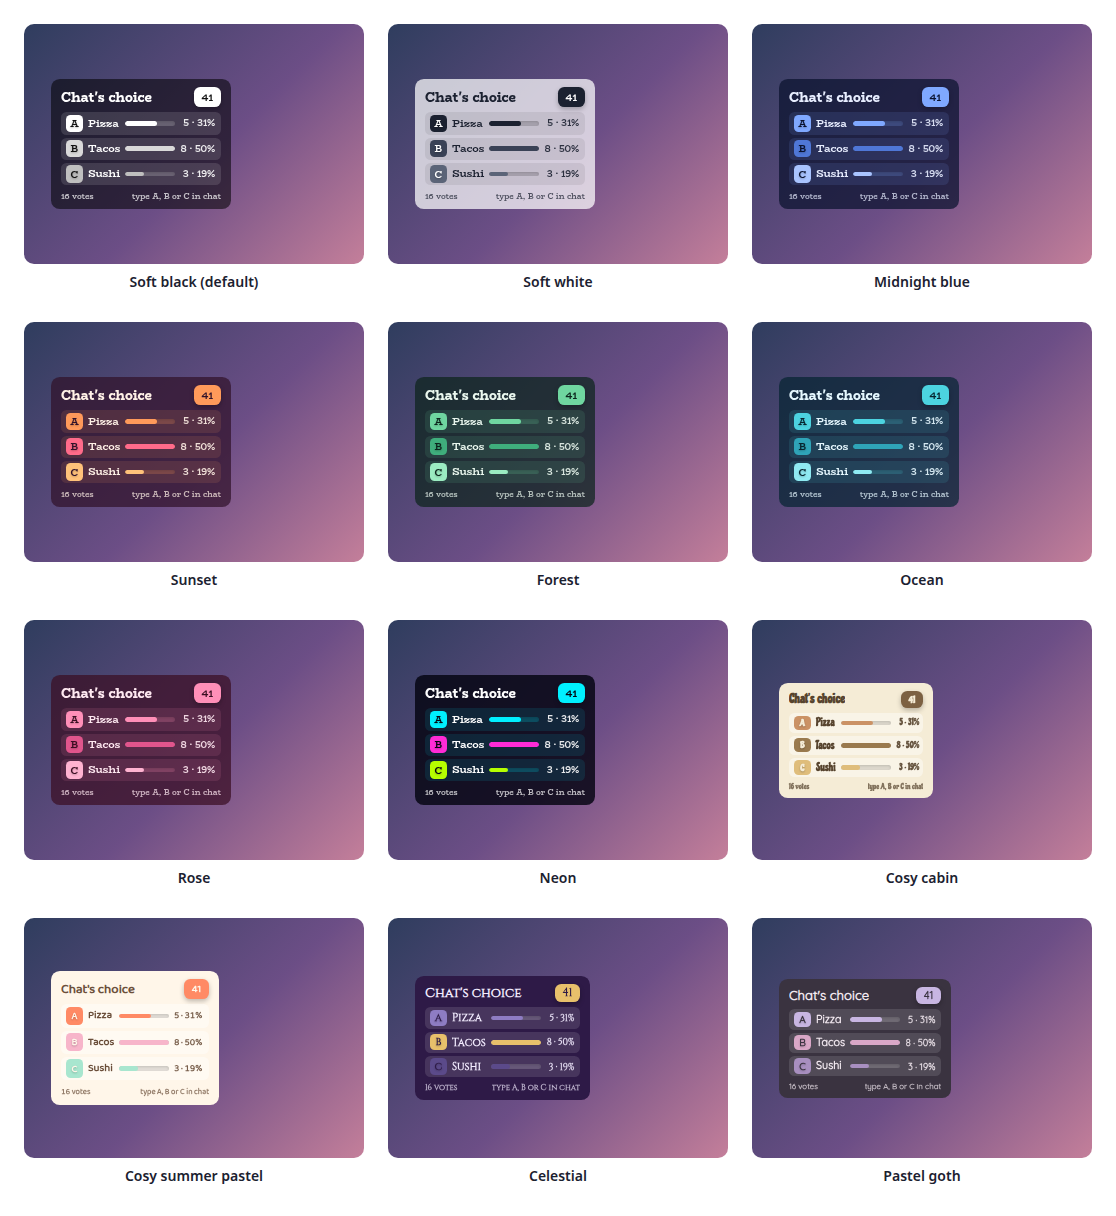
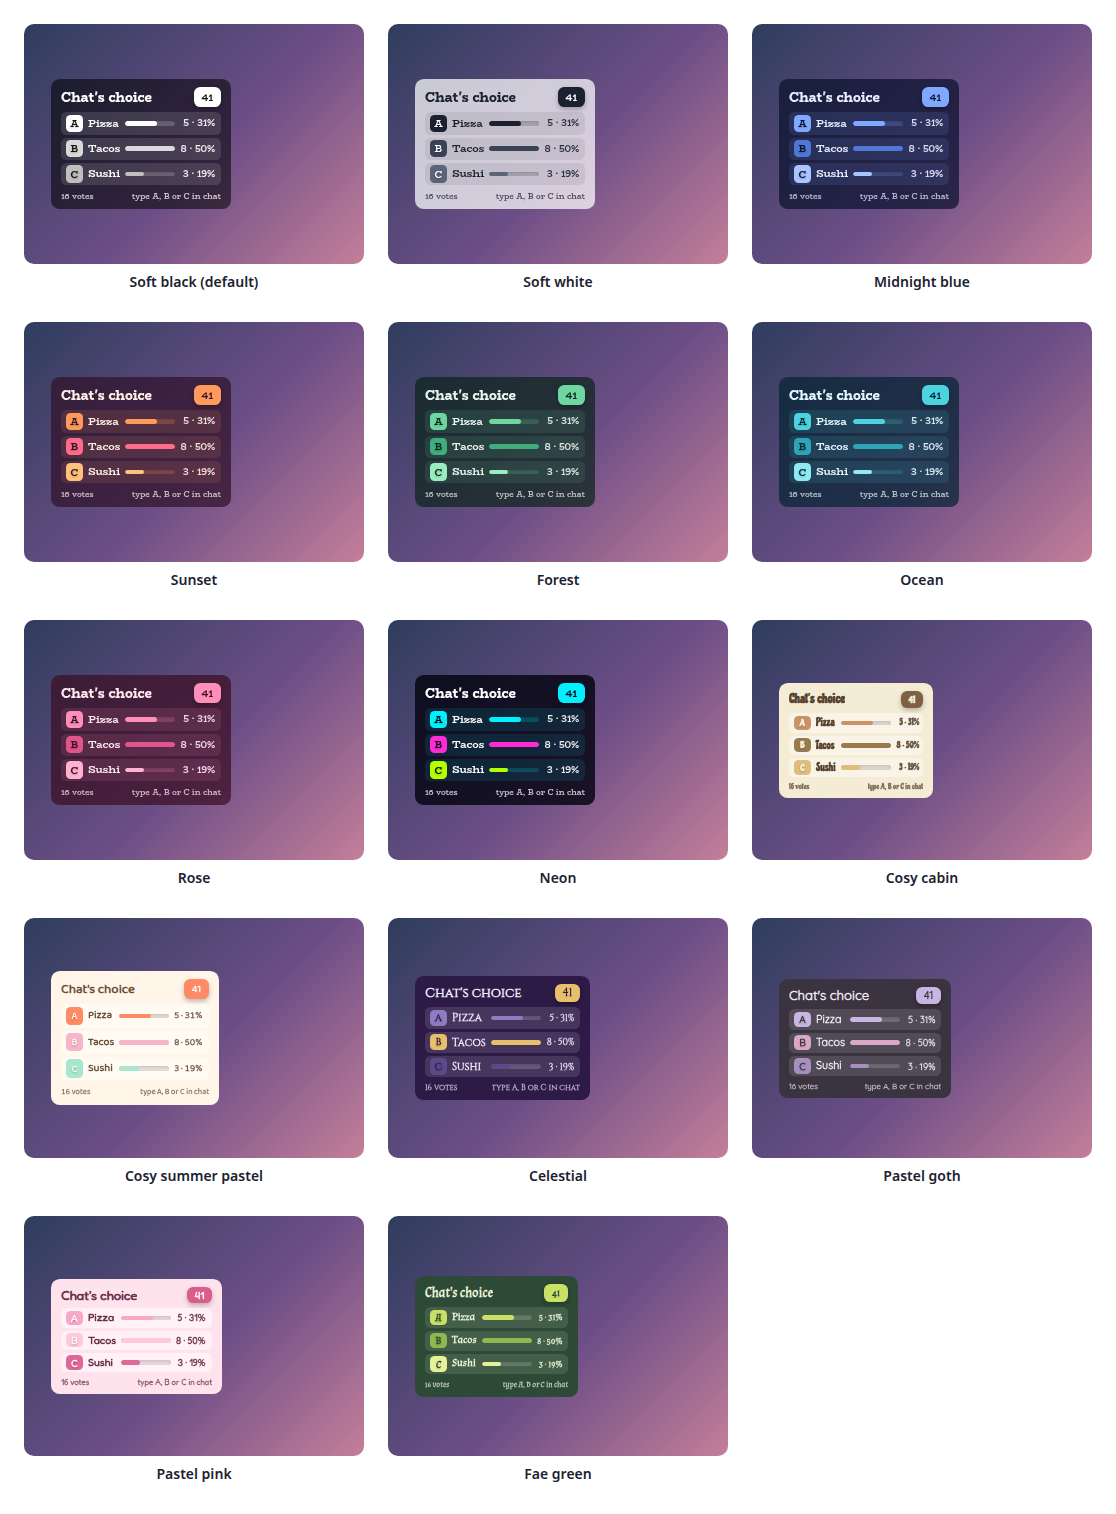
Add the Pastel pink and Fae green presets, and let the suffixes be blank
Two more style presets join the shared set, so there are now fourteen. Pastel pink is a soft blush with rose, in Fredoka, whose rounded letters suit it, and Fae green is a mossy green with a firefly lime accent, in Almendra, a storybook serif. They are identical in every overlay in this set, the dropdown and the README gallery show all fourteen, and the test checks each against the shared palette.

The ending of the hint line and the word after the total of a blind poll can now be cleared, which used to bring the defaults back.

diff --git a/test/test-widget.js b/test/test-widget.js
@@ -410,6 +410,13 @@ function ok(cond, msg) { if (cond) { pass++; console.log("  PASS " + msg); } els
   chat("truth b", { nick: "cat" });
   ok(votes().join(",") === "0,1", "and still matches on its label text (" + votes().join(",") + ")");
 
+  console.log("\n[blank wording stays blank]");
+  load({ hintSuffix: "", blindSuffix: "", liveResults: false }); await wait(5);
+  chat("!vote One, Two", boss); await wait(5);
+  ok(elements["vote-hint"].textContent === "type A or B", "a blank hint ending leaves none, with no stray space (" + JSON.stringify(elements["vote-hint"].textContent) + ")");
+  chat("1", { nick: "ann" });
+  ok(total() === "1 vote", "and a blank 'in' after the total leaves just the total (" + total() + ")");
+
   console.log("\n[the hint stays short]");
   load(); await wait(5);
   chat("!vote One, Two", boss); await wait(5);
@@ -568,11 +575,11 @@ function ok(cond, msg) { if (cond) { pass++; console.log("  PASS " + msg); } els
   ok(unhandled.length === 0, "every button is handled (unhandled: " + unhandled.join(", ") + ")");
 
 
-  // ---- style presets: the same twelve, with the same colours, in every overlay
+  // ---- style presets: the same fourteen, with the same colours, in every overlay
   console.log("\n[style presets]");
-  const EXPECT = {"glass": {"text": "#FFFFFF", "accent": "#FFFFFF", "panel": "rgba(0, 0, 0, 0.55)", "font": "BioRhyme"}, "frost": {"text": "#1B2130", "accent": "#1B2130", "panel": "rgba(255, 255, 255, 0.72)", "font": "BioRhyme"}, "midnight": {"text": "#E8EEFF", "accent": "#7FA8FF", "panel": "rgba(10, 18, 46, 0.72)", "font": "BioRhyme"}, "sunset": {"text": "#FFF1E6", "accent": "#FF9A5A", "panel": "rgba(48, 18, 42, 0.72)", "font": "BioRhyme"}, "forest": {"text": "#EAF7EE", "accent": "#6FD6A0", "panel": "rgba(12, 36, 28, 0.72)", "font": "BioRhyme"}, "ocean": {"text": "#E6F8FF", "accent": "#4CD3E0", "panel": "rgba(6, 36, 50, 0.72)", "font": "BioRhyme"}, "rose": {"text": "#FFE9F1", "accent": "#FF8FB8", "panel": "rgba(58, 14, 34, 0.72)", "font": "BioRhyme"}, "neon": {"text": "#FFFFFF", "accent": "#00F0FF", "panel": "rgba(4, 4, 16, 0.82)", "font": "BioRhyme"}, "cosycabin": {"text": "#57442E", "accent": "#7C6142", "panel": "#F5ECD6", "font": "Chicle"}, "pastel": {"text": "#6B4F3A", "accent": "#FF8A65", "panel": "#FFF6E9", "font": "Baloo 2"}, "celestial": {"text": "#F3ECFF", "accent": "#E8C06B", "panel": "#2E1A47", "font": "Cinzel"}, "pastelgoth": {"text": "#F2E9F0", "accent": "#C8B6E2", "panel": "#3A3340", "font": "Quicksand"}};
-  const LABELS = {"glass": "Soft black (default)", "frost": "Soft white", "midnight": "Midnight blue", "sunset": "Sunset", "forest": "Forest", "ocean": "Ocean", "rose": "Rose", "neon": "Neon", "cosycabin": "Cosy cabin", "pastel": "Cosy summer pastel", "celestial": "Celestial", "pastelgoth": "Pastel goth", "custom": "Custom (use the colours below)"};
-  ok(JSON.stringify(Object.keys(fields.themePreset.options)) === JSON.stringify(Object.keys(LABELS)) && Object.keys(LABELS).length === 13, "the dropdown offers the twelve shared presets and Custom, in the shared order");
+  const EXPECT = {"glass": {"text": "#FFFFFF", "accent": "#FFFFFF", "panel": "rgba(0, 0, 0, 0.55)", "font": "BioRhyme"}, "frost": {"text": "#1B2130", "accent": "#1B2130", "panel": "rgba(255, 255, 255, 0.72)", "font": "BioRhyme"}, "midnight": {"text": "#E8EEFF", "accent": "#7FA8FF", "panel": "rgba(10, 18, 46, 0.72)", "font": "BioRhyme"}, "sunset": {"text": "#FFF1E6", "accent": "#FF9A5A", "panel": "rgba(48, 18, 42, 0.72)", "font": "BioRhyme"}, "forest": {"text": "#EAF7EE", "accent": "#6FD6A0", "panel": "rgba(12, 36, 28, 0.72)", "font": "BioRhyme"}, "ocean": {"text": "#E6F8FF", "accent": "#4CD3E0", "panel": "rgba(6, 36, 50, 0.72)", "font": "BioRhyme"}, "rose": {"text": "#FFE9F1", "accent": "#FF8FB8", "panel": "rgba(58, 14, 34, 0.72)", "font": "BioRhyme"}, "neon": {"text": "#FFFFFF", "accent": "#00F0FF", "panel": "rgba(4, 4, 16, 0.82)", "font": "BioRhyme"}, "cosycabin": {"text": "#57442E", "accent": "#7C6142", "panel": "#F5ECD6", "font": "Chicle"}, "pastel": {"text": "#6B4F3A", "accent": "#FF8A65", "panel": "#FFF6E9", "font": "Baloo 2"}, "celestial": {"text": "#F3ECFF", "accent": "#E8C06B", "panel": "#2E1A47", "font": "Cinzel"}, "pastelgoth": {"text": "#F2E9F0", "accent": "#C8B6E2", "panel": "#3A3340", "font": "Quicksand"}, "pastelpink": {"text": "#6A2E4B", "accent": "#D95C8A", "panel": "#FFE3EC", "font": "Fredoka"}, "faegreen": {"text": "#EEF5DA", "accent": "#C9E265", "panel": "#2C4A36", "font": "Almendra"}};
+  const LABELS = {"glass": "Soft black (default)", "frost": "Soft white", "midnight": "Midnight blue", "sunset": "Sunset", "forest": "Forest", "ocean": "Ocean", "rose": "Rose", "neon": "Neon", "cosycabin": "Cosy cabin", "pastel": "Cosy summer pastel", "celestial": "Celestial", "pastelgoth": "Pastel goth", "pastelpink": "Pastel pink", "faegreen": "Fae green", "custom": "Custom (use the colours below)"};
+  ok(JSON.stringify(Object.keys(fields.themePreset.options)) === JSON.stringify(Object.keys(LABELS)) && Object.keys(LABELS).length === 15, "the dropdown offers the fourteen shared presets and Custom, in the shared order");
   ok(Object.keys(LABELS).every(k => fields.themePreset.options[k] === LABELS[k]), "with the shared labels");
   ok(fields.themePreset.value === "glass", "and Soft black is the default");
   for (const key of Object.keys(EXPECT)) {

diff --git a/widget/widget.js b/widget/widget.js
@@ -19,7 +19,7 @@
 
   var STORE_KEY = "chat_poll_v1";
 
-  /* Style presets. The same twelve, with the same colours, in every overlay in this
+  /* Style presets. The same fourteen, with the same colours, in every overlay in this
      set, generated from one table so they cannot drift apart, so any preset looks
      like one family across a whole stream. The default, Soft black, is a see-through
      black panel with white text. */
@@ -95,6 +95,18 @@
       row: "rgba(255, 255, 255, 0.12)", track: "rgba(255, 255, 255, 0.18)",
       segs: ["#C8B6E2", "#D9A7C7", "#A88FC0", "#8E7B9E", "#6E6080", "#B695C8", "#E0BBD4", "#4F4658"],
       font: "Quicksand"
+    },
+    pastelpink: {
+      bg: "#FFE3EC", text: "#6A2E4B", accent: "#D95C8A", onAccent: "#FFF5F9",
+      row: "rgba(255, 255, 255, 0.5)", track: "rgba(106, 46, 75, 0.14)",
+      segs: ["#F7A8C6", "#FFC8DD", "#E0679A", "#FBB1BD", "#D98BB0", "#FFD6E6", "#F28DB2", "#C95F8B"],
+      font: "Fredoka"
+    },
+    faegreen: {
+      bg: "#2C4A36", text: "#EEF5DA", accent: "#C9E265", onAccent: "#2C4A36",
+      row: "rgba(238, 245, 218, 0.12)", track: "rgba(238, 245, 218, 0.2)",
+      segs: ["#C9E265", "#8FB84E", "#E6F29A", "#6E9A45", "#F2F7C0", "#A8CB62", "#B7D96D", "#4F7A3A"],
+      font: "Almendra"
     }
   };
   var BASE = PRESETS.glass;
@@ -133,6 +145,11 @@
   }
   function str(v, dflt) {
     return (v === undefined || v === null || v === "") ? dflt : String(v);
+  }
+  // For wording where an empty field is a real choice. StreamElements sends "" for a cleared
+  // field, which str() would turn back into the default.
+  function txt(v, dflt) {
+    return (v === undefined || v === null) ? dflt : String(v);
   }
   function cmd(v, dflt) {
     return str(v, dflt).toLowerCase().trim();
@@ -178,11 +195,11 @@
       words: {
         vote: str(f.voteWord, "vote"),
         votes: str(f.votesWord, "votes"),
-        blindSuffix: str(f.blindSuffix, " in"),
+        blindSuffix: txt(f.blindSuffix, " in"),
         hintVerb: str(f.hintVerb, "type"),
         hintTo: str(f.hintTo, "to"),
         hintOr: str(f.hintOr, "or"),
-        hintSuffix: str(f.hintSuffix, "in chat"),
+        hintSuffix: txt(f.hintSuffix, "in chat"),
         timerSuffix: str(f.timerSuffix, "")
       },
       // Colours used when the preset is Custom; a preset colours every part itself.
@@ -796,7 +813,7 @@
   function hintText() {
     var keys = poll.options.map(function (o, i) { return LETTERS[i]; });
     var W = cfg.words;
-    var tail = " " + W.hintSuffix;
+    var tail = W.hintSuffix ? " " + W.hintSuffix : "";
     if (keys.length >= 5) return W.hintVerb + " " + keys[0] + " " + W.hintTo + " " + keys[keys.length - 1] + tail;
     if (keys.length === 1) return W.hintVerb + " " + keys[0] + tail;
     return W.hintVerb + " " + keys.slice(0, -1).join(", ") + " " + W.hintOr + " " + keys[keys.length - 1] + tail;

diff --git a/dev/harness.js b/dev/harness.js
@@ -100,7 +100,7 @@
     var def = fieldDefs.themePreset;
     host.innerHTML =
       (def ? '<div class="row"><label for="look-preset">Style preset</label> <select id="look-preset"></select></div>' +
-        '<p class="hint">The same twelve presets are in every overlay in this set. Custom uses the colour settings below.</p>' : '') +
+        '<p class="hint">The same fourteen presets are in every overlay in this set. Custom uses the colour settings below.</p>' : '') +
       '<div class="row"><button id="export-download" class="go">Download fields.json</button>' +
       '<button id="export-copy" class="alt">Copy fields.json</button></div>' +
       '<p class="hint">Your current settings as a fields.json for StreamElements. Paste it into the Fields tab of a new custom widget and it starts out as you see it here.</p>' +

diff --git a/README.md b/README.md
@@ -27,15 +27,15 @@ It was built for rounds like Two Truths and a Lie, but it suits any quick vote. 
 
 <p><img src="docs/result.png" alt="A finished poll with the winning option highlighted under the label Chat says" width="340"></p>
 
-**Your own look.** Every part of the card is a setting. This one uses custom colours, an outline, a different font for the heading and pink option colours. You can also pick any of the twelve [style presets](#style-presets) with one setting.
+**Your own look.** Every part of the card is a setting. This one uses custom colours, an outline, a different font for the heading and pink option colours. You can also pick any of the fourteen [style presets](#style-presets) with one setting.
 
 <p><img src="docs/custom.png" alt="A poll card in a customised pink theme with a script heading" width="340"></p>
 
 ## Style presets
 
-One setting picks the look. The same twelve presets, with the same colours, are in every overlay in this set, so overlays from this set match whichever you choose. This is how each one looks in this overlay.
+One setting picks the look. The same fourteen presets, with the same colours, are in every overlay in this set, so overlays from this set match whichever you choose. This is how each one looks in this overlay.
 
-<p><img src="docs/presets.png" alt="A grid of this overlay in each of the twelve style presets: Soft black, Soft white, Midnight blue, Sunset, Forest, Ocean, Rose, Neon, Cosy cabin, Cosy summer pastel, Celestial and Pastel goth" width="760"></p>
+<p><img src="docs/presets.png" alt="A grid of this overlay in each of the fourteen style presets: Soft black, Soft white, Midnight blue, Sunset, Forest, Ocean, Rose, Neon, Cosy cabin, Cosy summer pastel, Celestial, Pastel goth, Pastel pink and Fae green" width="760"></p>
 
 | Preset | Look |
 | --- | --- |
@@ -51,6 +51,8 @@ One setting picks the look. The same twelve presets, with the same colours, are 
 | Cosy summer pastel | Warm cream and coral, in Baloo 2. |
 | Celestial | Deep purple and gold, in Cinzel. |
 | Pastel goth | Charcoal and lilac, in Quicksand. |
+| Pastel pink | Soft blush pink with rose, in Fredoka. |
+| Fae green | Mossy green with a firefly lime accent, in Almendra. |
 
 Choose **Custom** to use the colour pickers and font instead. They are ignored while a preset is chosen.
 
@@ -114,7 +116,7 @@ Every setting has a plain label in StreamElements, grouped as follows.
 | Copy | The heading, the result and tie labels, the hint line, the words for vote and votes, and a troubleshooting overlay. |
 | Card | **Size of everything**, corner roundness, padding, spacing, an outline, shadows, the tail and tilt of the timer and result label, and the size of each option's bar. |
 | Text | The size and boldness of the heading, countdown, result label, options, letter chips, counts and footer, an own font for the heading, and the opacity of counts, footer and options that did not win. |
-| Theme | One of the twelve shared style presets (Soft black by default) or Custom colours and font, with a colour for every part and each of the eight options, and an opacity for the panel. |
+| Theme | One of the fourteen shared style presets (Soft black by default) or Custom colours and font, with a colour for every part and each of the eight options, and an opacity for the panel. |
 | Animation | One switch for all animation, and how long the bars, the card and the pulse take. |
 | Sounds | A sound and volume for a poll opening, a vote, each of the last seconds and the result, plus a master mute. |
 | Manual controls | Buttons to start a demo poll, add time, end, restart, cancel and undo, and to test each sound. |
@@ -194,7 +196,7 @@ The widget uses the StreamElements events `onWidgetLoad`, `onEventReceived` with
 
 ## Related overlays
 
-These overlays share the same default look and the same twelve style presets, so they sit together on one stream.
+These overlays share the same default look and the same fourteen style presets, so they sit together on one stream.
 
 - [Sub Goals Overlay](https://github.com/jordan-lee-code/sub-goals-overlay): sub and bits goals that fill as chat reaches them.
 - [Subathon Overlay](https://github.com/jordan-lee-code/subathon-overlay): a subathon clock with a cap, power-ups and sub goals.

diff --git a/CONTRIBUTING.md b/CONTRIBUTING.md
@@ -22,7 +22,7 @@ The dev harness stands in for StreamElements, so you can try changes without goi
 4. When you add a setting, add it to `widget/fields.json` and read it in `widget/widget.js`.
 5. Add or update tests in `test/`, and make sure `npm test` passes.
 6. If behaviour changes, update the README.
-7. The twelve style presets are shared by every overlay in this set, with identical colours, so they look cohesive on one stream. They live in the `PRESETS` table in `widget/widget.js`, and a test checks each against the shared values. If you change a palette, make the same change in the other overlays and regenerate the gallery in `docs/presets.png`.
+7. The fourteen style presets are shared by every overlay in this set, with identical colours, so they look cohesive on one stream. They live in the `PRESETS` table in `widget/widget.js`, and a test checks each against the shared values. If you change a palette, make the same change in the other overlays and regenerate the gallery in `docs/presets.png`.
 
 ## Reporting a bug
 
